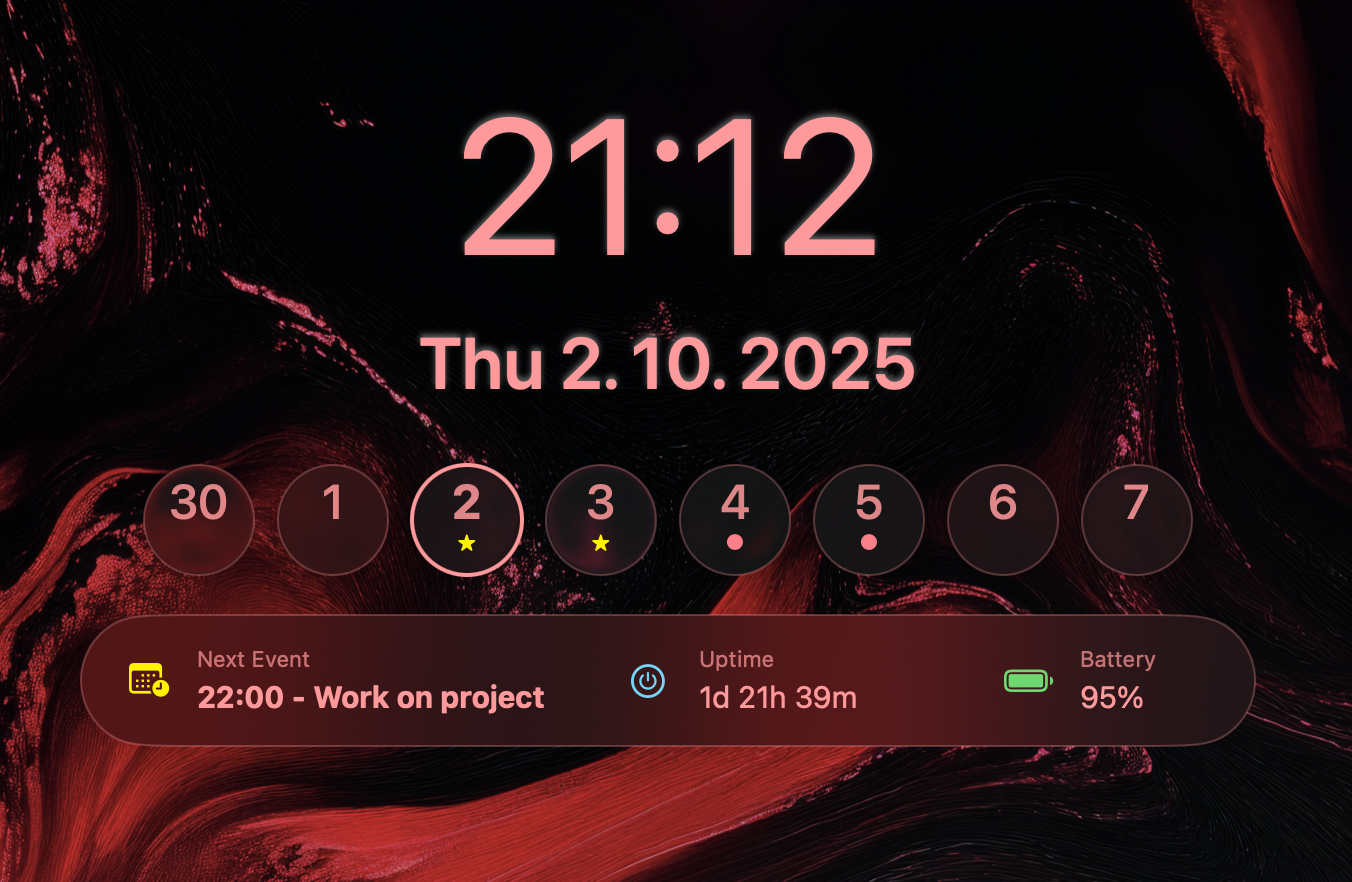
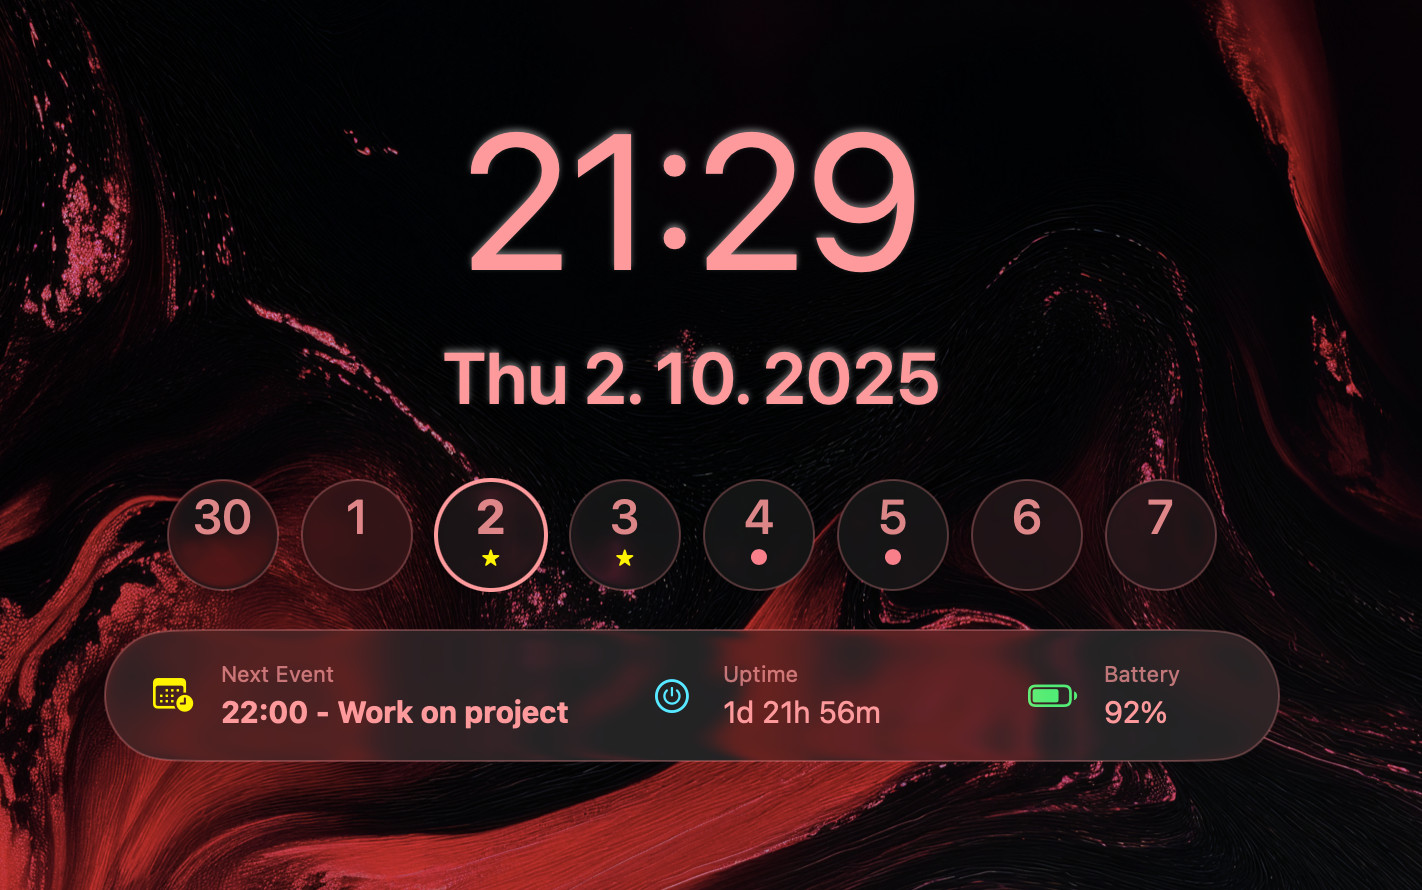
update

diff --git a/DigitalClock/View/AdditionalInfoView.swift b/DigitalClock/View/AdditionalInfoView.swift
@@ -60,7 +60,7 @@ struct AdditionalInfoView: View {
             )
         }
         .padding(15)
-        .background(.ultraThinMaterial, in: panelShape)
+        .glassEffect(.regular, in: panelShape)
         .overlay(
             panelShape
                 .stroke(clockSettings.textColor.opacity(0.3), lineWidth: 1)
